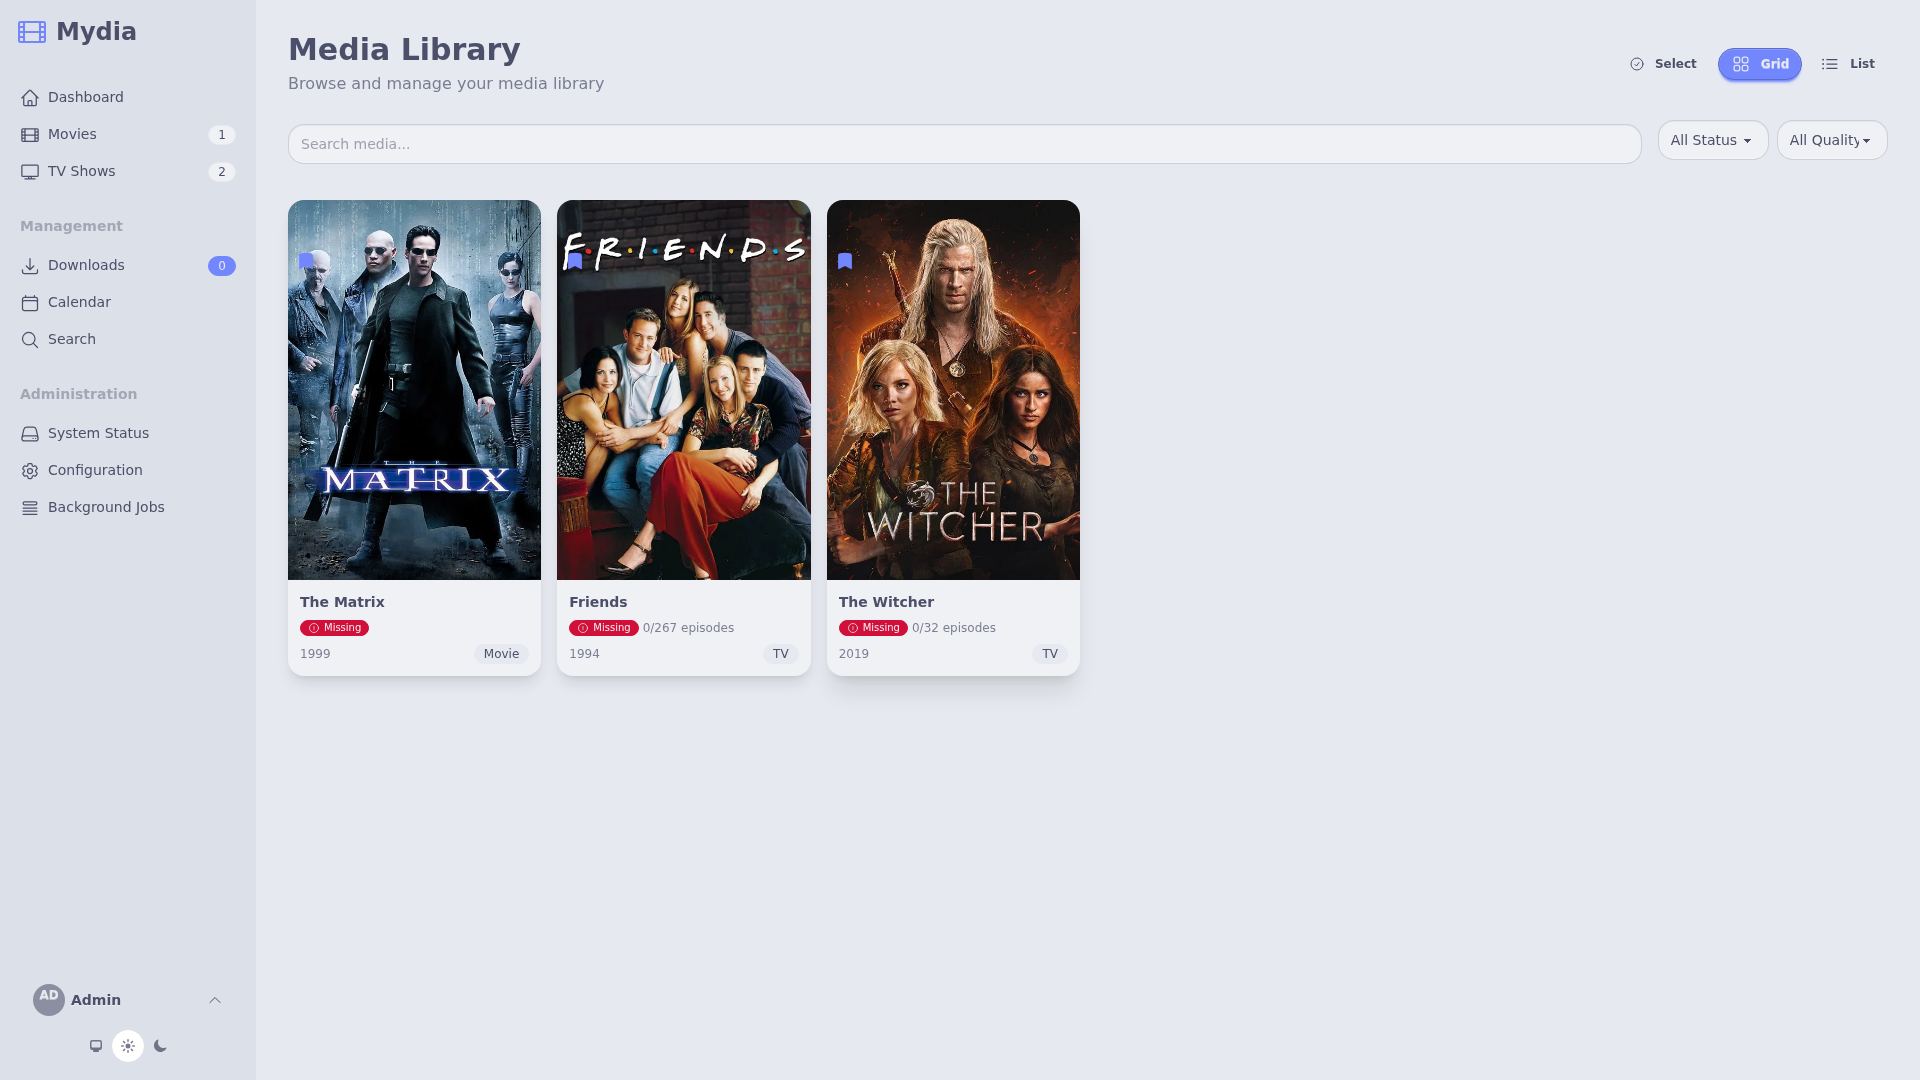
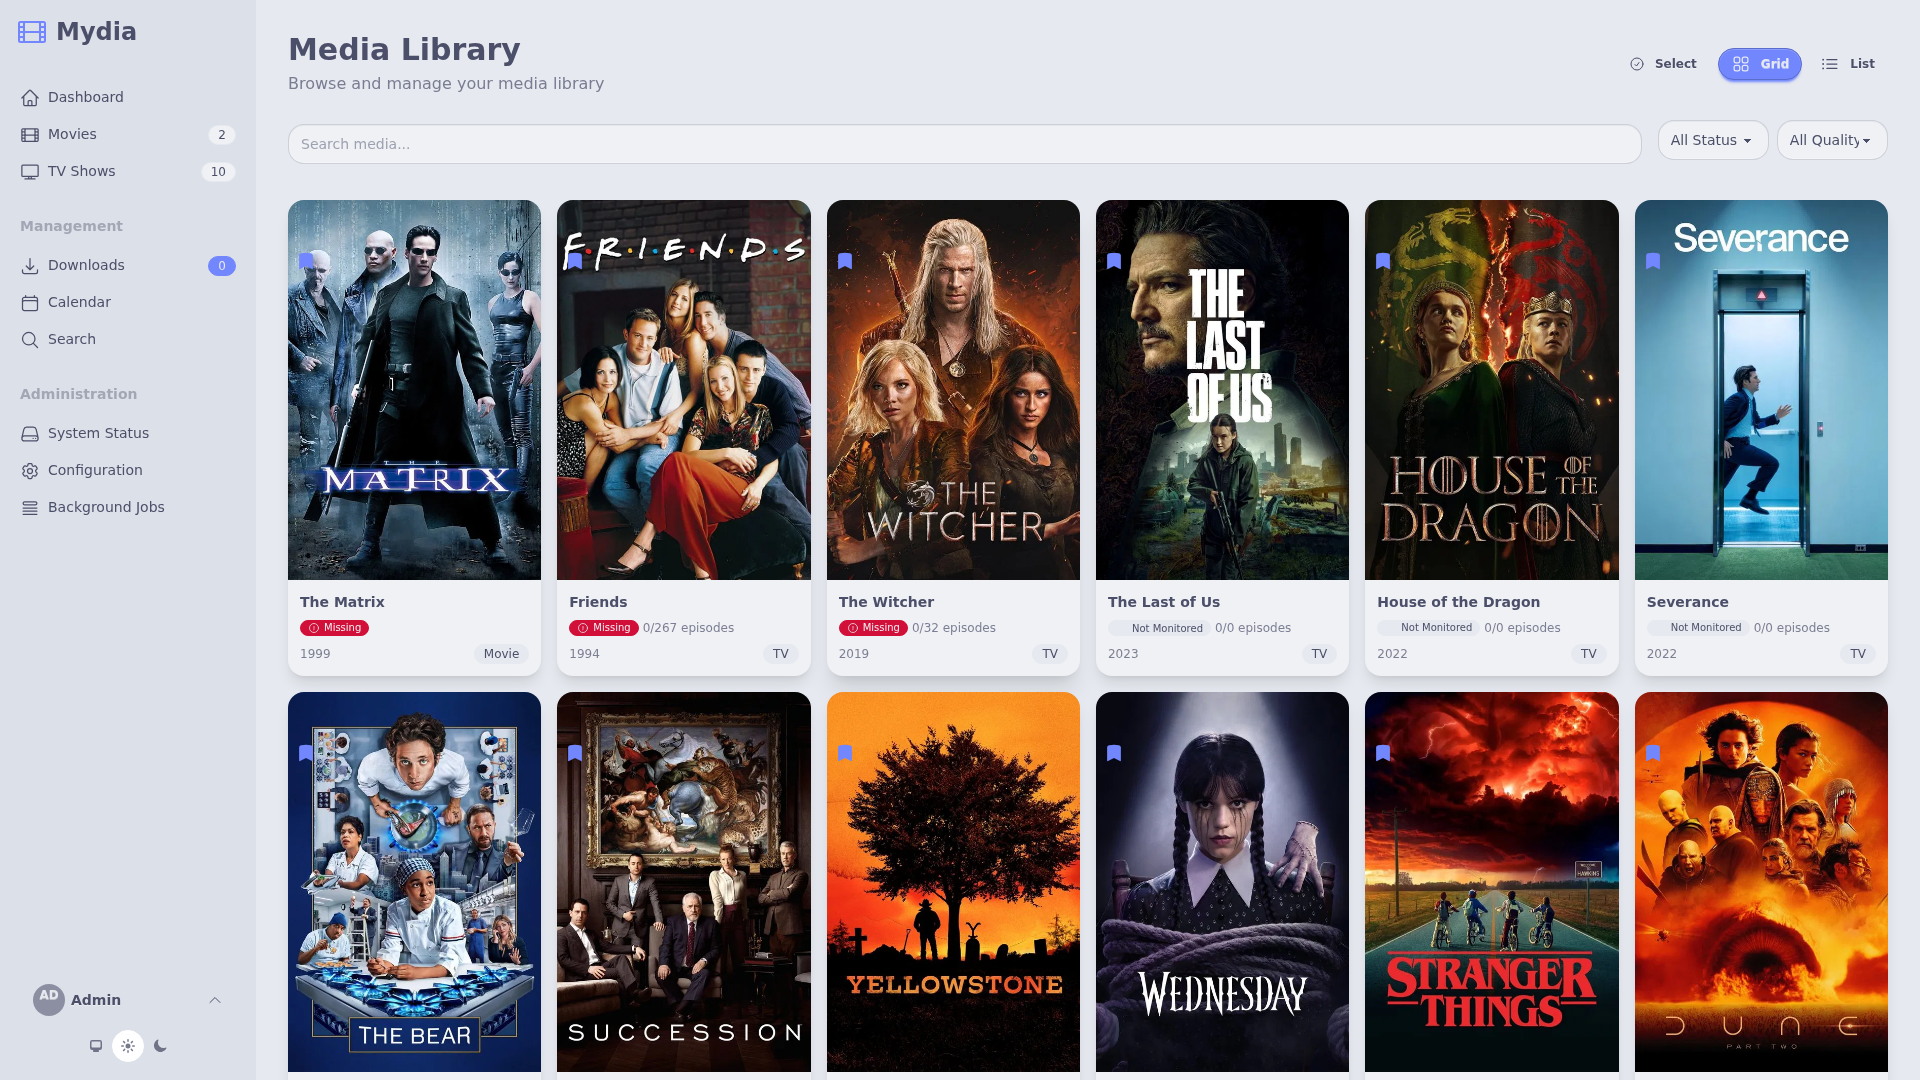
feat: add media population script and update screenshots
- Created Playwright script to automate adding TV series and movies
- Added npm script 'populate-media' for easy media population
- Successfully populated database with 8 popular TV series:
  * The Last of Us, House of the Dragon, Severance
  * The Bear, Succession, Yellowstone
  * Wednesday, Stranger Things
- Added 1 movie: Dune Part Two
- Regenerated all screenshots showing populated media library
- Updated homepage showing 2 movies and 10 TV shows total
- Updated media library grid displaying all series with posters

The populate-media script can be run with:
  ./dev exec app sh -c "cd assets && npm run populate-media"

diff --git a/assets/populate-media.js b/assets/populate-media.js
@@ -1,0 +1,195 @@
+const { chromium } = require('@playwright/test');
+
+/**
+ * Configuration
+ */
+const config = {
+  baseUrl: process.env.BASE_URL || 'http://localhost:4000',
+  credentials: {
+    username: process.env.USERNAME || 'admin',
+    password: process.env.PASSWORD || 'admin'
+  }
+};
+
+/**
+ * Media to add
+ */
+const tvSeries = [
+  'The Last of Us',
+  'House of the Dragon',
+  'Severance',
+  'The Bear',
+  'Succession',
+  'Yellowstone',
+  'Wednesday',
+  'Stranger Things'
+];
+
+const movies = [
+  'Oppenheimer',
+  'Barbie',
+  'Poor Things',
+  'The Holdovers',
+  'Past Lives',
+  'Killers of the Flower Moon',
+  'The Zone of Interest'
+];
+
+/**
+ * Add a TV series
+ */
+async function addSeries(page, seriesName) {
+  console.log(`📺 Adding series: ${seriesName}`);
+
+  try {
+    await page.goto(`${config.baseUrl}/add/series`);
+    await page.waitForLoadState('networkidle');
+    await page.waitForTimeout(1000);
+
+    // Check if the search input exists
+    const searchInput = page.locator('input[name="search"]');
+    const inputExists = await searchInput.count() > 0;
+
+    if (!inputExists) {
+      console.log(`  ⚠ Search input not found - may need authentication or configuration`);
+      // Save a screenshot for debugging
+      await page.screenshot({ path: '../tmp/debug-series.png' });
+      console.log(`  📸 Screenshot saved to tmp/debug-series.png`);
+      return;
+    }
+
+    // Enter search query
+    await searchInput.fill(seriesName);
+    await page.click('button[type="submit"]:has-text("Search")');
+
+    // Wait for search results
+    await page.waitForTimeout(3000);
+
+    // Click the first "Add" button (quick_add) - excluding "Added" buttons
+    const addButton = page.locator('button:has-text("Add"):not(:has-text("Added")):not(:has-text("Adding"))').first();
+    if (await addButton.isVisible({ timeout: 5000 })) {
+      await addButton.click();
+      console.log(`  ✓ Added ${seriesName}`);
+      await page.waitForTimeout(2000);
+    } else {
+      console.log(`  ⚠ No results found for ${seriesName}`);
+    }
+  } catch (error) {
+    console.log(`  ✗ Error adding ${seriesName}: ${error.message}`);
+  }
+}
+
+/**
+ * Add a movie
+ */
+async function addMovie(page, movieName) {
+  console.log(`🎬 Adding movie: ${movieName}`);
+
+  try {
+    await page.goto(`${config.baseUrl}/add/movie`);
+    await page.waitForLoadState('networkidle');
+    await page.waitForTimeout(1000);
+
+    // Check if the search input exists
+    const searchInput = page.locator('input[name="search"]');
+    const inputExists = await searchInput.count() > 0;
+
+    if (!inputExists) {
+      console.log(`  ⚠ Search input not found - may need authentication or configuration`);
+      return;
+    }
+
+    // Enter search query
+    await searchInput.fill(movieName);
+    await page.click('button[type="submit"]:has-text("Search")');
+
+    // Wait for search results
+    await page.waitForTimeout(3000);
+
+    // Click the first "Add" button (quick_add) - excluding "Added" buttons
+    const addButton = page.locator('button:has-text("Add"):not(:has-text("Added")):not(:has-text("Adding"))').first();
+    if (await addButton.isVisible({ timeout: 5000 })) {
+      await addButton.click();
+      console.log(`  ✓ Added ${movieName}`);
+      await page.waitForTimeout(2000);
+    } else {
+      console.log(`  ⚠ No results found for ${movieName}`);
+    }
+  } catch (error) {
+    console.log(`  ✗ Error adding ${movieName}: ${error.message}`);
+  }
+}
+
+/**
+ * Main function
+ */
+async function populateMedia() {
+  console.log('🎬 Starting media population...\n');
+
+  const browser = await chromium.launch({
+    headless: true
+  });
+
+  const context = await browser.newContext({
+    viewport: { width: 1920, height: 1080 },
+    deviceScaleFactor: 1
+  });
+
+  const page = await context.newPage();
+
+  try {
+    // Login first
+    console.log('🔐 Logging in...');
+    await page.goto(`${config.baseUrl}/auth/local/login`);
+    await page.waitForLoadState('networkidle');
+
+    const loginForm = await page.locator('form').first();
+    const formVisible = await loginForm.isVisible().catch(() => false);
+
+    if (formVisible) {
+      await page.fill('input[name="user[username]"]', config.credentials.username);
+      await page.fill('input[name="user[password]"]', config.credentials.password);
+      await page.click('button[type="submit"]');
+
+      // Wait for navigation to complete
+      await page.waitForURL(/\/$/, { timeout: 10000 }).catch(() => {});
+      await page.waitForLoadState('networkidle');
+      await page.waitForTimeout(2000);
+      console.log('✓ Logged in successfully\n');
+    } else {
+      console.log('ℹ Already logged in\n');
+    }
+
+    // Add TV series (skip - already added)
+    // console.log('📺 Adding TV Series...\n');
+    // for (const series of tvSeries) {
+    //   await addSeries(page, series);
+    // }
+
+    console.log('🎬 Adding Movies...\n');
+    // Add movies
+    for (const movie of movies) {
+      await addMovie(page, movie);
+    }
+
+    console.log('\n✅ Media population complete!');
+
+  } catch (error) {
+    console.error('❌ Error populating media:', error.message);
+    throw error;
+  } finally {
+    await browser.close();
+  }
+}
+
+// Run if called directly
+if (require.main === module) {
+  populateMedia()
+    .then(() => process.exit(0))
+    .catch((error) => {
+      console.error(error);
+      process.exit(1);
+    });
+}
+
+module.exports = { populateMedia };
